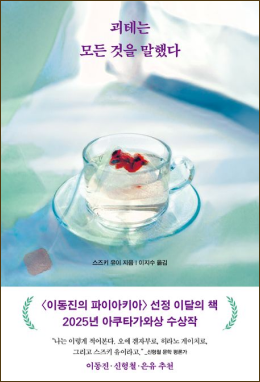
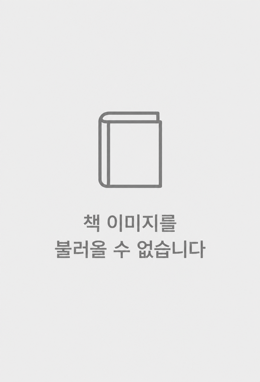
fix: 빈 책 표지 플레이스홀더 적용

diff --git a/bwApp/bookwheel/components/home/ReadingGroupCard.tsx b/bwApp/bookwheel/components/home/ReadingGroupCard.tsx
@@ -1,3 +1,4 @@
+import { useEffect, useState } from "react";
 import { Image, StyleSheet, Text, View } from "react-native";
 
 import type { HomeReadingRoom } from "@/types/room";
@@ -15,15 +16,22 @@ type BookColumnProps = {
 };
 
 function BookColumn({ label, title, coverImage, detail }: BookColumnProps) {
+  const [imageLoadFailed, setImageLoadFailed] = useState(false);
+
+  useEffect(() => {
+    setImageLoadFailed(false);
+  }, [coverImage]);
+
   return (
     <View style={styles.bookColumn}>
       <Text style={styles.bookLabel}>{label}</Text>
       <Image
         source={
-          coverImage
+          coverImage && !imageLoadFailed
             ? { uri: coverImage }
             : require("@/assets/images/book.png")
         }
+        onError={() => setImageLoadFailed(true)}
         style={styles.cover}
         resizeMode="cover"
       />
